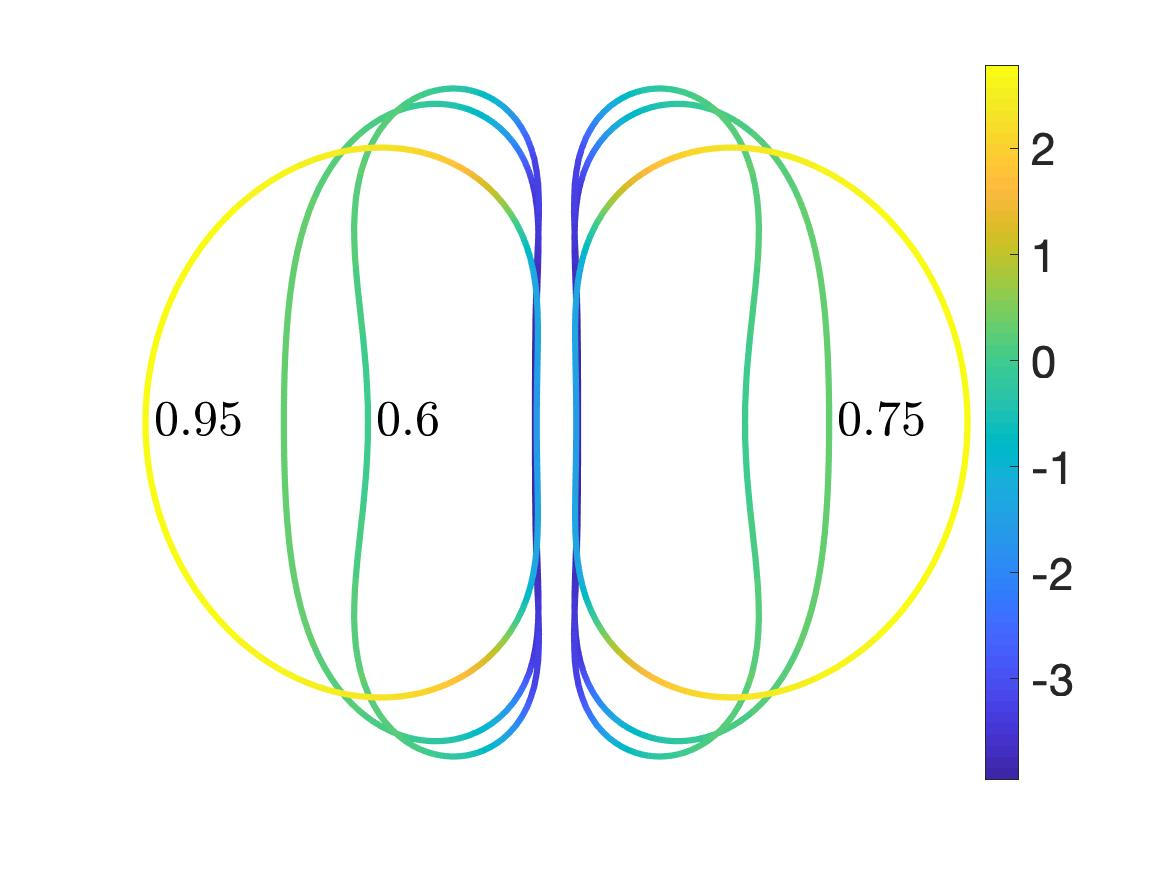
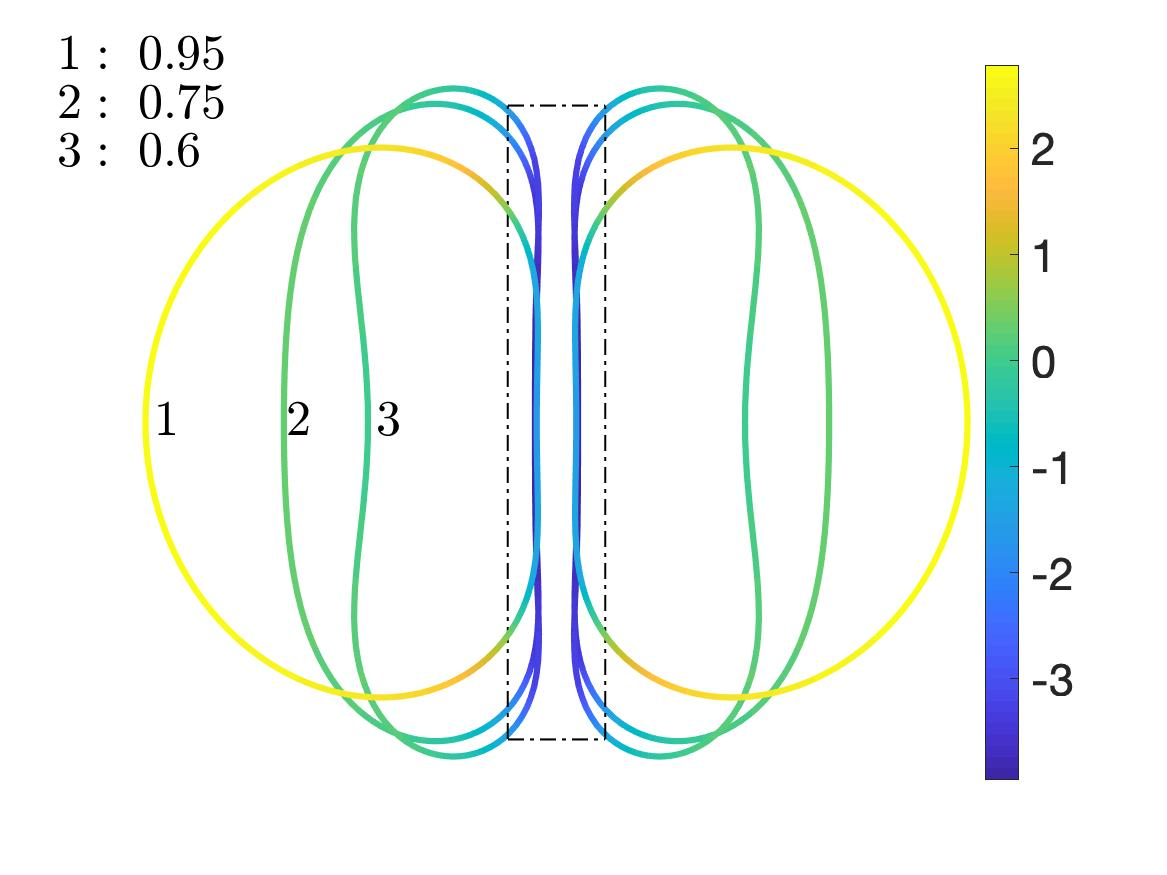
more changes by yny

diff --git a/vesicle_code/docs/adhesion/adhesion.tex b/vesicle_code/docs/adhesion/adhesion.tex
@@ -763,10 +763,11 @@ shapes in a quiescent flow are shown in the left plot of
 Figure~\ref{fig:Dec18_vesicle_shape} for three reduced areas: $\Delta
 A=0.95$, $0.75$, and $0.6$ with $\mathcal{H}=5$ and $\delta = 0.2$. 
 \begin{figure}
-  \includegraphics[keepaspectratio=true,scale=0.175]{figs/Dec18_vesicle_shape_vs_rA_00.jpeg}
-  \includegraphics[keepaspectratio=true,scale=0.175]{figs/Dec18_vesicle_shape_vs_rA_01.jpeg}
-  \caption{\label{fig:Dec18_vesicle_shape} The equilibrium configuration
-  of a doublet of identical vesicles under adhesion in a quiescent flow.
+%  \includegraphics[keepaspectratio=true,scale=0.175]{figs/Dec18_vesicle_shape_vs_rA_00.jpeg}
+%  \includegraphics[keepaspectratio=true,scale=0.175]{figs/Dec18_vesicle_shape_vs_rA_01.jpeg}
+   \includegraphics[keepaspectratio=true,scale=0.5]{figs/Dec18_vesicle_shape_vs_rA_composite.png}
+  \caption{\label{fig:Dec18_vesicle_shape} Equilibrium configurations
+  of a doublet of identical vesicles under adhesion in a quiescent flow at three values of $\Delta A$.
   The vesicle reduced areas of $\Delta A=0.95$, $0.75$, and $0.6$ are
   labeled.  The color coding is the tension along the vesicle.  The
   vesicle length is fixed at $2\pi$, the dimensionless bending rigidity
